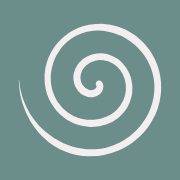
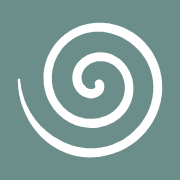
Ícono de pestaña: espiral blanco que gira
Claude-Session: https://claude.ai/code/session_01WRVTwZwth3iERk5uy3NYbt

diff --git a/index.html b/index.html
@@ -641,5 +641,6 @@ fit();if(document.fonts&&document.fonts.ready)document.fonts.ready.then(function
 function fit(){var w=(h.parentNode&&h.parentNode.clientWidth)||innerWidth;if(!w)return;h.style.setProperty('font-size','100px','important');var r=document.createRange();r.selectNodeContents(h);var tw=r.getBoundingClientRect().width;if(tw>0)h.style.setProperty('font-size',(100*w*0.965/tw).toFixed(2)+'px','important');dispatchEvent(new Event('scroll'))}
 fit();if(document.fonts&&document.fonts.ready)document.fonts.ready.then(fit);addEventListener('load',fit);var t;addEventListener('resize',function(){clearTimeout(t);t=setTimeout(fit,120)});
 try{new MutationObserver(function(){fit()}).observe(h,{childList:true,characterData:true,subtree:true})}catch(e){}})();</script>
+<script id="favicon-gira">(function(){try{if(matchMedia('(prefers-reduced-motion:reduce)').matches)return;var src=document.getElementById('fav-svg');var href=src?src.href:'/favicon.svg';var im=new Image();im.onload=function(){var S=64,c=document.createElement('canvas');c.width=c.height=S;var x=c.getContext('2d');var ls=[].slice.call(document.querySelectorAll('link[rel="icon"]'));ls.forEach(function(l){l.parentNode.removeChild(l)});var L=document.createElement('link');L.rel='icon';L.type='image/png';document.head.appendChild(L);var t0=performance.now(),P=9000;function d(){var a=((performance.now()-t0)%P)/P*Math.PI*2;x.clearRect(0,0,S,S);x.save();x.translate(S/2,S/2);x.rotate(a);x.drawImage(im,-S/2,-S/2,S,S);x.restore();L.href=c.toDataURL('image/png')}d();setInterval(d,110)};im.src=href}catch(e){}})();</script>
 </body>
 </html>
